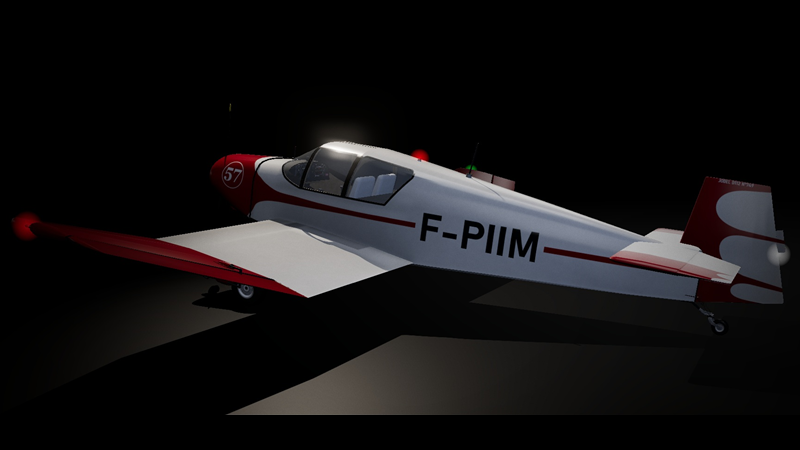
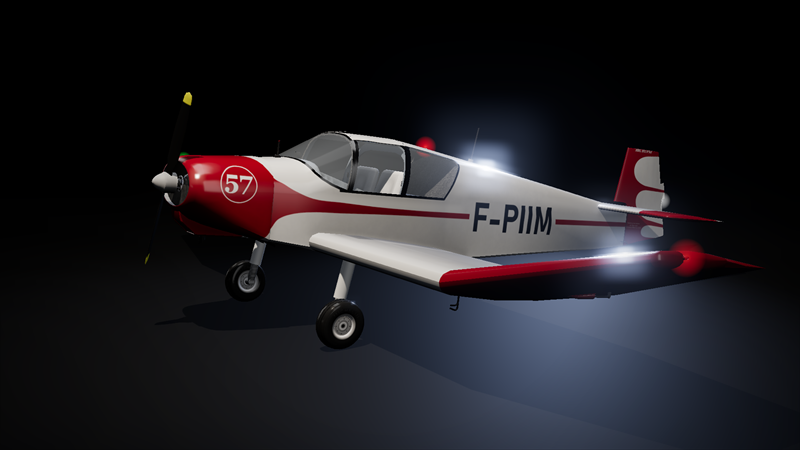
v0.9.1 : nouvelles icones X-Plane (icon11 et vignette)

diff --git a/README.md b/README.md
@@ -1,5 +1,5 @@
 # Jodel D112 F-PIIM - depot SkunkCrafts Updater
 
-Depot de mise a jour du Jodel D112 F-PIIM pour X-Plane 11 (version 0.9).
+Depot de mise a jour du Jodel D112 F-PIIM pour X-Plane 11 (version 0.9.1).
 
 Modele 3D d'origine : Emmanuel Baranger (helijah). Modele final X-Plane : Dimitri CHEVAILLER.
